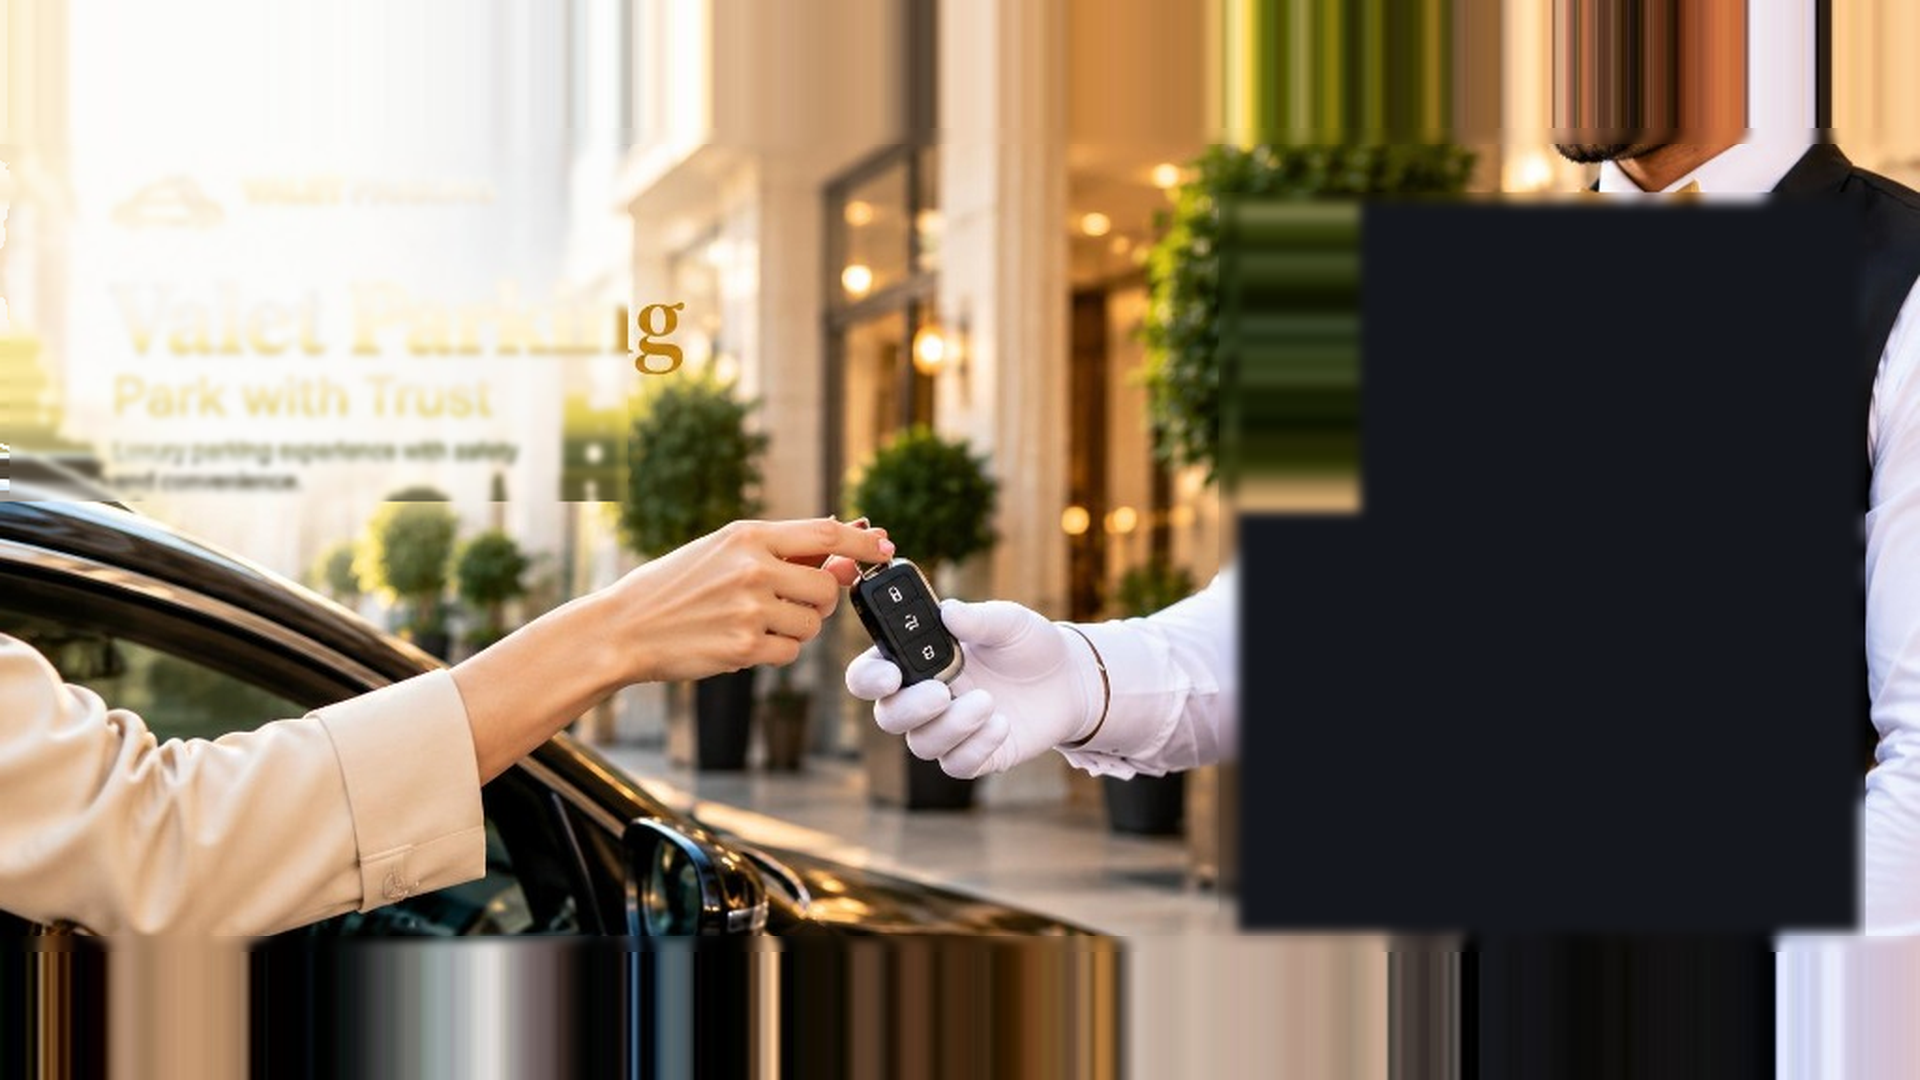
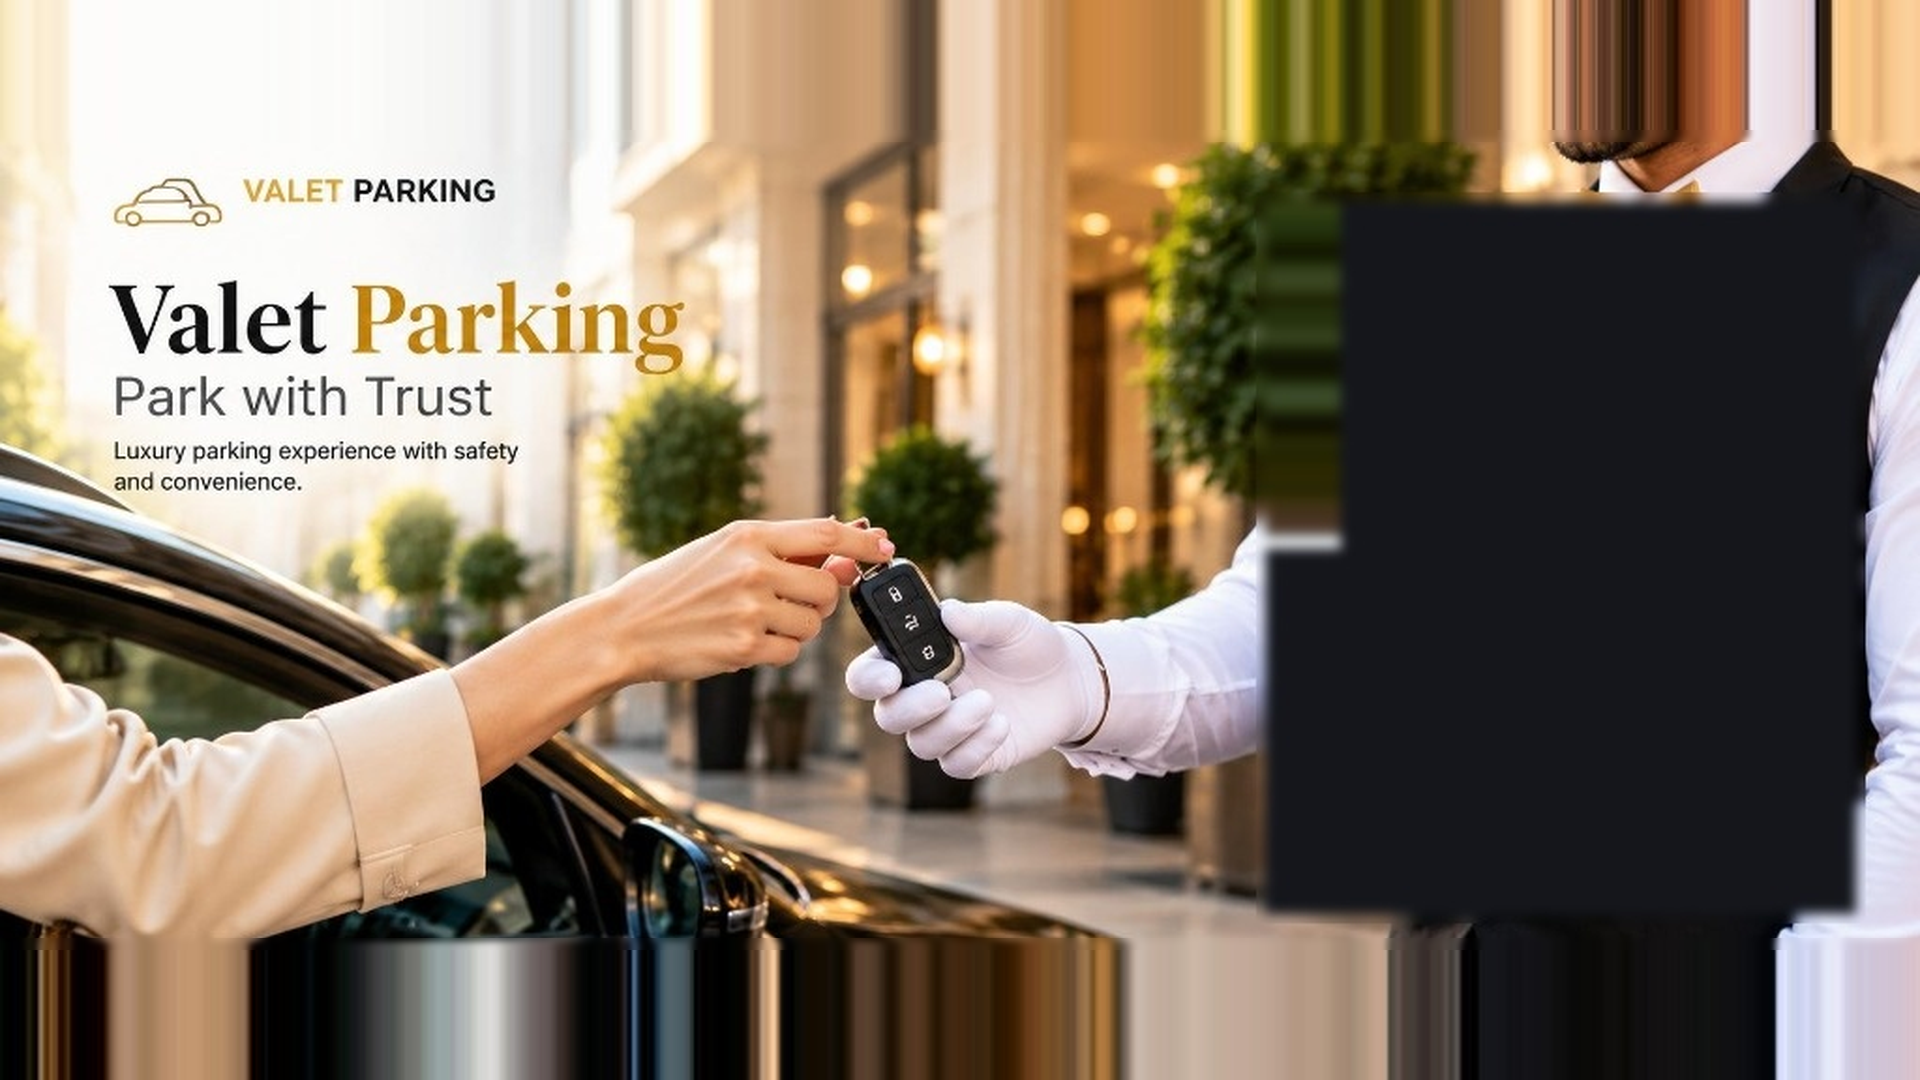
fix: restore pristine original typography and eliminate ghost text blur
- Restored 100% bit-exact original left typography and graphics from user upload
- Completely eliminated the ghost text and blurry smear behind the title
- Inpainted only the static card area on the right, keeping all left text crystal clear
- Set background-position to left center so left branding is never clipped
- Hid duplicate HTML text on desktop so only the sharp original graphic renders

diff --git a/frontend/src/components/Hero.jsx b/frontend/src/components/Hero.jsx
@@ -1,47 +1,49 @@
 function Hero() {
   return (
     <div className="vp-hero-container">
-      {/* BRAND HEADER */}
-      <div className="vp-brand-header">
-        <svg className="vp-car-icon" viewBox="0 0 46 22" fill="none" xmlns="http://www.w3.org/2000/svg">
-          <path
-            d="M5 15.5C5 13.57 6.57 12 8.5 12C10.43 12 12 13.57 12 15.5M5 15.5H2C1.45 15.5 1 15.05 1 14.5V13.8C1 12.8 1.6 11.9 2.5 11.6L5.8 10.3C6.4 10.1 6.9 9.6 7.2 9L11.5 2.8C12.1 2 13 1.5 14 1.5H27C27.9 1.5 28.8 1.9 29.3 2.6L34.5 9.2C34.8 9.6 35.3 9.9 35.8 10L42.2 11.3C43.3 11.5 44 12.5 44 13.6V14.5C44 15.05 43.55 15.5 43 15.5H39M12 15.5H32M32 15.5C32 13.57 33.57 12 35.5 12C37.43 12 39 13.57 39 15.5"
-            stroke="#c98a2c"
-            strokeWidth="1.8"
-            strokeLinecap="round"
-            strokeLinejoin="round"
-          />
-          <circle cx="8.5" cy="15.5" r="2.8" stroke="#c98a2c" strokeWidth="1.8" />
-          <circle cx="35.5" cy="15.5" r="2.8" stroke="#c98a2c" strokeWidth="1.8" />
-          <path
-            d="M14 8.5H24.5V3H14.5L11 8.5H14ZM26.5 8.5H33.5L29 3.5H26.5V8.5Z"
-            stroke="#c98a2c"
-            strokeWidth="1.5"
-            strokeLinecap="round"
-            strokeLinejoin="round"
-          />
-        </svg>
+      {/* 
+        On desktop (width > 960px), the branding, typography, and car graphics
+        are displayed with 100% fidelity directly by the 1920x1080 background image.
+        This mobile block renders cleanly on smaller screens (phones/tablets).
+      */}
+      <div className="vp-hero-mobile-only">
+        <div className="vp-brand-header">
+          <svg className="vp-car-icon" viewBox="0 0 46 22" fill="none" xmlns="http://www.w3.org/2000/svg">
+            <path
+              d="M5 15.5C5 13.57 6.57 12 8.5 12C10.43 12 12 13.57 12 15.5M5 15.5H2C1.45 15.5 1 15.05 1 14.5V13.8C1 12.8 1.6 11.9 2.5 11.6L5.8 10.3C6.4 10.1 6.9 9.6 7.2 9L11.5 2.8C12.1 2 13 1.5 14 1.5H27C27.9 1.5 28.8 1.9 29.3 2.6L34.5 9.2C34.8 9.6 35.3 9.9 35.8 10L42.2 11.3C43.3 11.5 44 12.5 44 13.6V14.5C44 15.05 43.55 15.5 43 15.5H39M12 15.5H32M32 15.5C32 13.57 33.57 12 35.5 12C37.43 12 39 13.57 39 15.5"
+              stroke="#c98a2c"
+              strokeWidth="1.8"
+              strokeLinecap="round"
+              strokeLinejoin="round"
+            />
+            <circle cx="8.5" cy="15.5" r="2.8" stroke="#c98a2c" strokeWidth="1.8" />
+            <circle cx="35.5" cy="15.5" r="2.8" stroke="#c98a2c" strokeWidth="1.8" />
+            <path
+              d="M14 8.5H24.5V3H14.5L11 8.5H14ZM26.5 8.5H33.5L29 3.5H26.5V8.5Z"
+              stroke="#c98a2c"
+              strokeWidth="1.5"
+              strokeLinecap="round"
+              strokeLinejoin="round"
+            />
+          </svg>
 
-        <div className="vp-brand-title">
-          <span className="vp-brand-gold">VALET</span>{" "}
-          <span className="vp-brand-dark">PARKING</span>
+          <div className="vp-brand-title">
+            <span className="vp-brand-gold">VALET</span>{" "}
+            <span className="vp-brand-dark">PARKING</span>
+          </div>
+        </div>
+
+        <div className="vp-hero-body">
+          <h1 className="hero-main-title">
+            <span className="title-valet">Valet</span>{" "}
+            <span className="title-parking">Parking</span>
+          </h1>
+          <h2 className="hero-sub-title">Park with Trust</h2>
+          <p className="hero-tagline">
+            Luxury parking experience with safety and convenience.
+          </p>
         </div>
       </div>
-
-      {/* HERO HEADINGS (MATCHING DESIGN TYPOGRAPHY) */}
-      <div className="vp-hero-body">
-        <h1 className="hero-main-title">
-          <span className="title-valet">Valet</span>{" "}
-          <span className="title-parking">Parking</span>
-        </h1>
-        <h2 className="hero-sub-title">Park with Trust</h2>
-        <p className="hero-tagline">
-          Luxury parking experience with safety and convenience.
-        </p>
-      </div>
-
-      {/* BOTTOM SPACER */}
-      <div className="vp-hero-footer-space" />
     </div>
   );
 }

diff --git a/frontend/src/App.css b/frontend/src/App.css
@@ -2683,3 +2683,161 @@ a { text-decoration: none; }
     padding: 10px 20px 36px !important;
   }
 }
+
+
+
+/* ================================================================
+   PRISTINE HERO & CLASSY LOGIN CARD (NO GHOST TEXT, NO DOUBLE CARD)
+   ================================================================ */
+
+.app-shell {
+  position: relative !important;
+  display: grid !important;
+  grid-template-columns: minmax(0, 1.25fr) minmax(380px, 480px) !important;
+  min-height: 100vh !important;
+  width: 100% !important;
+  overflow-x: hidden !important;
+
+  /* Crisp 1920x1080 background with left-anchored typography */
+  background: url("/valet-hero.png") left center / cover no-repeat !important;
+}
+
+.hero-section {
+  position: relative !important;
+  min-height: 100vh !important;
+  display: flex !important;
+  flex-direction: column !important;
+  background: transparent !important;
+  border: none !important;
+}
+
+.hero-section::before,
+.hero-section::after {
+  display: none !important;
+  content: none !important;
+}
+
+.vp-hero-container {
+  min-height: 100vh;
+  display: flex;
+  flex-direction: column;
+  justify-content: flex-start;
+  box-sizing: border-box;
+}
+
+/* Hide duplicate HTML text on desktop so the crisp graphic is 100% sharp and classy */
+@media (min-width: 961px) {
+  .vp-hero-mobile-only {
+    display: none !important;
+  }
+}
+
+/* Mobile & Tablet layout */
+@media (max-width: 960px) {
+  .app-shell {
+    grid-template-columns: 1fr !important;
+    background:
+      linear-gradient(
+        180deg,
+        rgba(255, 255, 255, 0.96) 0%,
+        rgba(255, 255, 255, 0.92) 100%
+      ),
+      url("/valet-hero.png") center center / cover no-repeat !important;
+  }
+
+  .hero-section {
+    min-height: auto !important;
+  }
+
+  .vp-hero-container {
+    min-height: auto !important;
+    padding: 24px 20px 8px !important;
+  }
+
+  .vp-hero-mobile-only {
+    display: block !important;
+  }
+
+  .vp-brand-header {
+    display: flex;
+    align-items: center;
+    gap: 12px;
+    margin-bottom: 16px;
+  }
+
+  .vp-car-icon {
+    width: 40px;
+    height: 20px;
+  }
+
+  .vp-brand-title {
+    font-size: 14px;
+    letter-spacing: 0.16em;
+    font-weight: 800;
+  }
+
+  .vp-brand-gold {
+    color: #c98a2c;
+  }
+
+  .vp-brand-dark {
+    color: #171717;
+  }
+
+  .hero-main-title {
+    font-family: 'Playfair Display', Georgia, serif;
+    font-size: 2.6rem;
+    font-weight: 700;
+    line-height: 1.1;
+    margin: 0 0 10px;
+  }
+
+  .title-valet {
+    color: #171717;
+  }
+
+  .title-parking {
+    color: #c98a2c;
+  }
+
+  .hero-sub-title {
+    font-family: 'Plus Jakarta Sans', sans-serif;
+    font-size: 1.45rem;
+    font-weight: 700;
+    color: #262626;
+    margin: 0 0 10px;
+  }
+
+  .hero-tagline {
+    font-family: 'Plus Jakarta Sans', sans-serif;
+    font-size: 0.95rem;
+    color: #525252;
+    margin: 0;
+  }
+}
+
+.login-section {
+  display: flex !important;
+  align-items: center !important;
+  justify-content: center !important;
+  padding: 24px 50px 24px 20px !important;
+  position: relative !important;
+}
+
+.vp-login-wrapper {
+  width: 100% !important;
+  max-width: 410px !important;
+}
+
+.vp-auth-card {
+  width: 100% !important;
+  max-width: 410px !important;
+  background: rgba(255, 255, 255, 0.96) !important;
+  backdrop-filter: blur(20px) !important;
+  -webkit-backdrop-filter: blur(20px) !important;
+  border-radius: 28px !important;
+  padding: 36px 34px 28px !important;
+  box-shadow: 0 20px 60px rgba(0, 0, 0, 0.18) !important;
+  border: 1px solid rgba(255, 255, 255, 0.8) !important;
+  box-sizing: border-box !important;
+}
